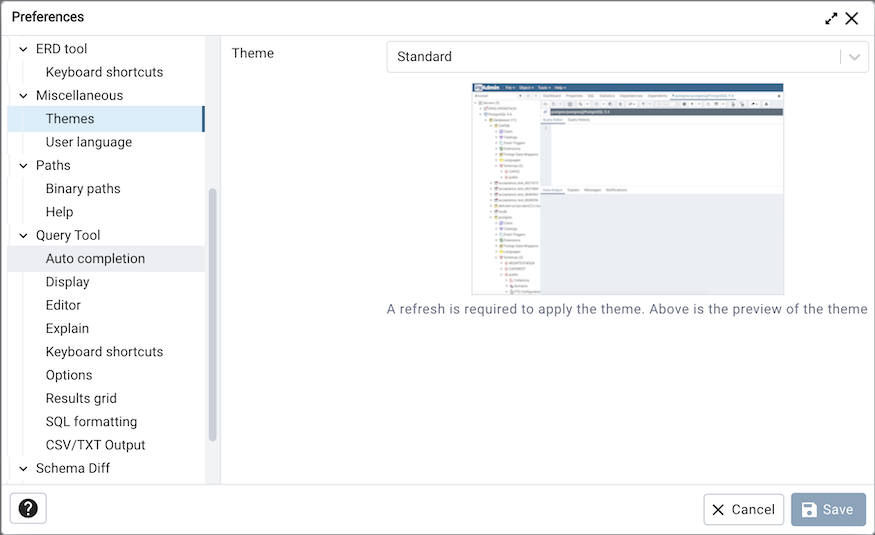
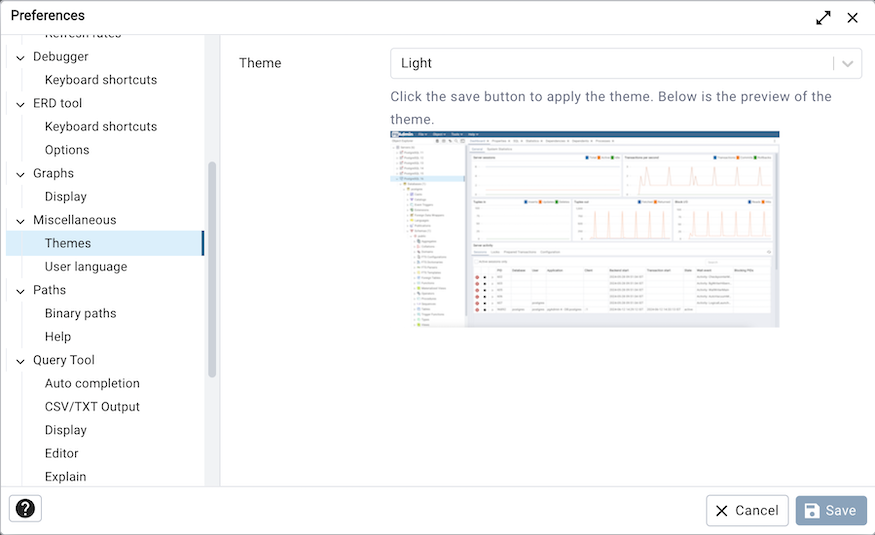
Provide an option to set the theme based on the OS theme. #5932

diff --git a/web/pgadmin/static/js/components/SelectThemes.jsx b/web/pgadmin/static/js/components/SelectThemes.jsx
@@ -8,24 +8,29 @@
 //////////////////////////////////////////////////////////////
 
 import gettext from 'sources/gettext';
-import { Grid } from '@mui/material';
+import { Grid, FormHelperText } from '@mui/material';
 import React, { useMemo } from 'react';
 import {InputSelect } from './FormComponents';
 import PropTypes from 'prop-types';
 import CustomPropTypes from '../custom_prop_types';
+import HTMLReactParse from 'html-react-parser';
 
 
-export default function SelectThemes({onChange, ...props}) {
+export default function SelectThemes({onChange, helpMessage, ...props}) {
 
   const previewSrc = useMemo(()=>(props.options?.find((o)=>o.value==props.value)?.preview_src), [props.value]);
-
+  const cid =  _.uniqueId('c');
+  const helpid = `h${cid}`;
   return (
-    <Grid container direction="column">
+    <Grid container direction="column" spacing={0.5}>
       <Grid item lg={12} md={12} sm={12} xs={12}>
         <InputSelect ref={props.inputRef} onChange={onChange} {...props} />
       </Grid>
       <Grid item lg={12} md={12} sm={12} xs={12} sx={{paddingTop: 10}}>
-        <img className='img-fluid mx-auto d-block border' src={previewSrc} alt={gettext('Preview not available...')} />
+        { previewSrc && <>
+          <FormHelperText id={helpid} variant="outlined">{HTMLReactParse(helpMessage || '')}</FormHelperText>
+          <img className='img-fluid mx-auto d-block border' src={previewSrc} alt={gettext('Preview not available...')} />
+        </> }
       </Grid>
     </Grid>
   );
@@ -37,5 +42,6 @@ SelectThemes.propTypes = {
   controlProps: PropTypes.object,
   fields: PropTypes.array,
   options: PropTypes.array,
-  inputRef: CustomPropTypes.ref
+  inputRef: CustomPropTypes.ref,
+  helpMessage: PropTypes.string
 };

diff --git a/web/pgadmin/static/js/Theme/index.jsx b/web/pgadmin/static/js/Theme/index.jsx
@@ -773,10 +773,11 @@ function getFinalTheme(baseTheme) {
 /* In future, this will be moved to App container */
 export default function Theme({children}) {
   const prefStore = usePreferences();
-  const [themeName, setThemeName] = useState(prefStore.getPreferencesForModule('misc')?.theme);
+  const [currentTheme, setCurrentTheme] = useState(prefStore.getPreferencesForModule('misc')?.theme);
+
   const themeObj = useMemo(()=>{
     let baseTheme = getStandardTheme(basicSettings);
-    switch(themeName) {
+    switch(currentTheme) {
     case 'dark':
       baseTheme = getDarkTheme(baseTheme);
       break;
@@ -785,11 +786,20 @@ export default function Theme({children}) {
       break;
     }
     return getFinalTheme(baseTheme);
-  }, [themeName]);
+  }, [currentTheme]);
 
   useEffect(() => usePreferences.subscribe(
     state => {
-      setThemeName(state.getPreferencesForModule('misc').theme);
+      let selectdTheme = state.getPreferencesForModule('misc').theme;
+      if(selectdTheme === 'system'){
+        const themeQuery = window.matchMedia('(prefers-color-scheme: light)');
+        setCurrentTheme(themeQuery.matches ? 'light' : 'dark');
+        themeQuery.addEventListener('change', ({ matches }) => {
+          setCurrentTheme(matches ? 'light' : 'dark');
+        });
+      }else{
+        setCurrentTheme(selectdTheme);
+      }
     }
   ), []);
 

diff --git a/web/pgadmin/static/js/components/FormComponents.jsx b/web/pgadmin/static/js/components/FormComponents.jsx
@@ -1211,8 +1211,8 @@ export function FormInputSelectThemes({ hasError, label, className, helpMessage,
   const cid = _.uniqueId('c');
   const helpid = `h${cid}`;
   return (
-    <FormInput label={label} error={hasError} className={className} helpMessage={helpMessage} testcid={testcid} labelTooltip={labelTooltip}>
-      <SelectThemes cid={cid} helpid={helpid} onChange={onChange} {...props} />
+    <FormInput label={label} error={hasError} className={className}  testcid={testcid} labelTooltip={labelTooltip}>
+      <SelectThemes cid={cid} helpid={helpid} helpMessage={helpMessage} onChange={onChange} {...props} />
     </FormInput>
   );
 }

diff --git a/web/pgadmin/misc/__init__.py b/web/pgadmin/misc/__init__.py
@@ -20,7 +20,6 @@ from pgadmin.utils import PgAdminModule, replace_binary_path, \
 from pgadmin.utils.csrf import pgCSRFProtect
 from pgadmin.utils.session import cleanup_session_files
 from pgadmin.misc.themes import get_all_themes
-from pgadmin.utils.constants import MIMETYPE_APP_JS, UTILITIES_ARRAY
 from pgadmin.utils.ajax import precondition_required, make_json_response, \
     internal_server_error
 from pgadmin.utils.heartbeat import log_server_heartbeat, \
@@ -74,20 +73,21 @@ class MiscModule(PgAdminModule):
                 'preview_src': url_for(
                     'static', filename='js/generated/img/' +
                                        theme_data['preview_img']
-                )
+                ) if 'preview_img' in theme_data else None
             })
 
         self.preference.register(
             'themes', 'theme',
-            gettext("Theme"), 'options', 'standard',
+            gettext("Theme"), 'options', 'light',
             category_label=gettext('Themes'),
             options=theme_options,
             control_props={
                 'allowClear': False,
+                'creatable': False,
             },
             help_str=gettext(
-                'A refresh is required to apply the theme. Above is the '
-                'preview of the theme'
+                'Click the save button to apply the theme. Below is the '
+                'preview of the theme.'
             )
         )
 

diff --git a/web/pgadmin/misc/themes/__init__.py b/web/pgadmin/misc/themes/__init__.py
@@ -5,9 +5,9 @@ from pgadmin.utils.preferences import Preferences
 
 def get_all_themes():
     all_themes = {
-        "standard": {
-            "disp_name": "Standard",
-            "preview_img": "standard_preview.png"
+        "light": {
+            "disp_name": "Light",
+            "preview_img": "light_preview.png"
         },
         "dark": {
             "disp_name": "dark",
@@ -16,6 +16,9 @@ def get_all_themes():
         "high_contrast": {
             "disp_name": "high_contrast",
             "preview_img": "high_contrast_preview.png"
+        },
+        "system": {
+            "disp_name": "system"
         },
     }
     return all_themes

diff --git a/docs/en_US/preferences.rst b/docs/en_US/preferences.rst
@@ -282,7 +282,8 @@ Expand the *Miscellaneous* node to specify miscellaneous display preferences.
 * Use the *Themes* drop-down listbox to select the theme for pgAdmin. You'll also get a preview just below the
   drop down. You can also submit your own themes,
   check `here <https://github.com/pgadmin-org/pgadmin4/blob/master/README.md>`_ how.
-  Currently we support Standard, Dark and High Contrast theme.
+  Currently we support Standard, Dark and High Contrast and System theme. Selecting System option will follow
+  your computer's settings.
 
 The Paths Node
 **************
